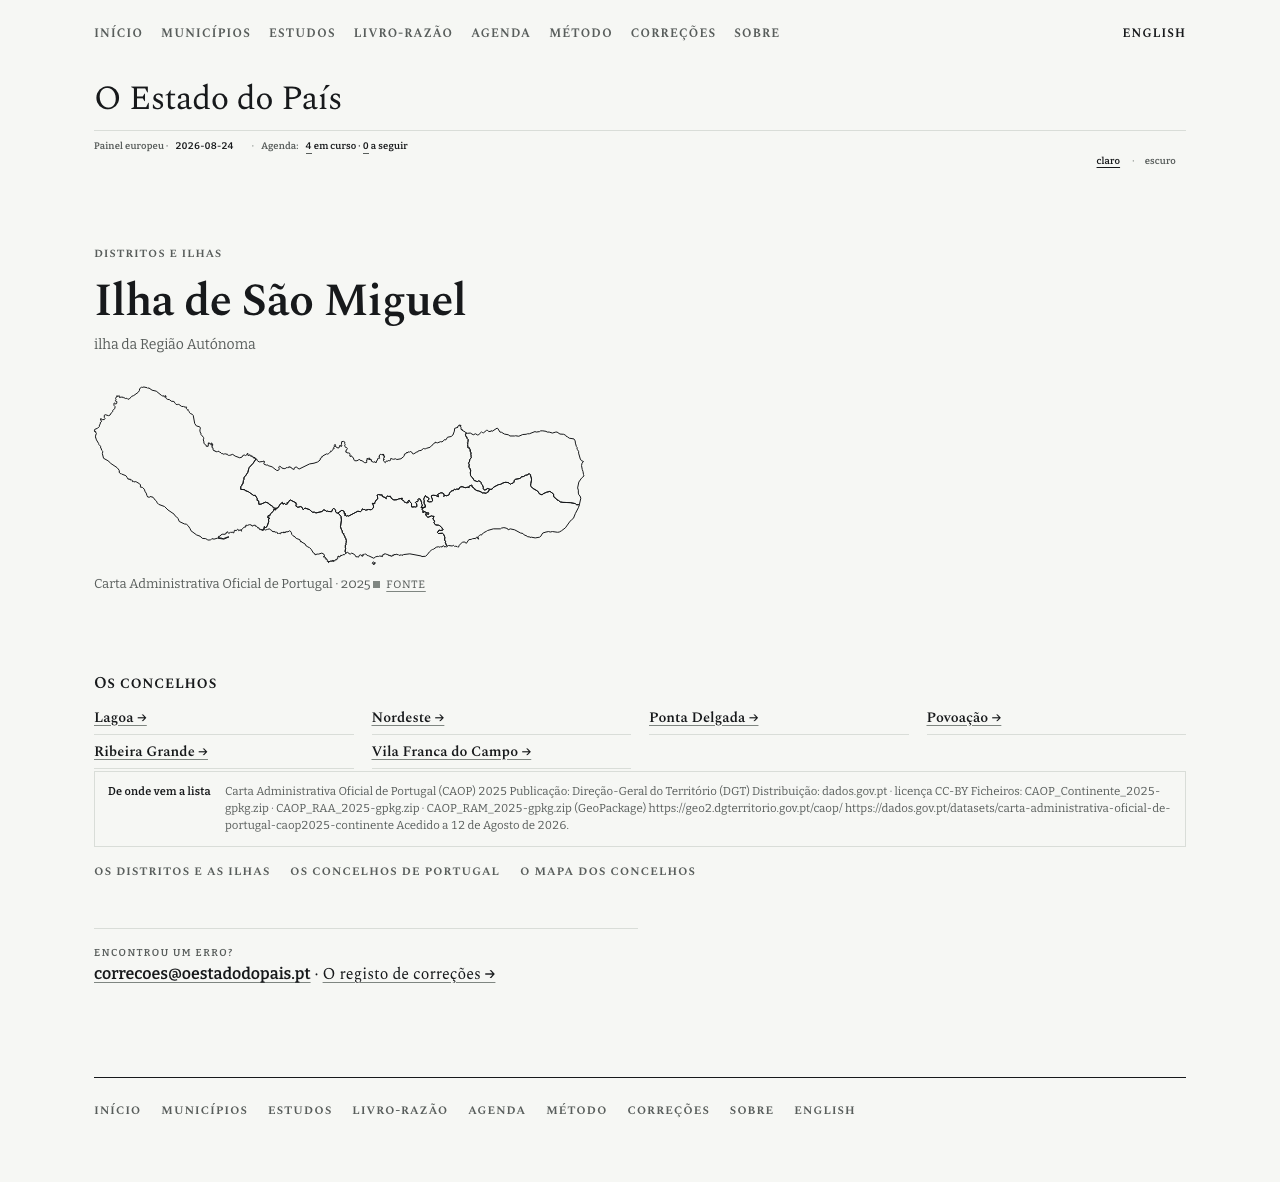
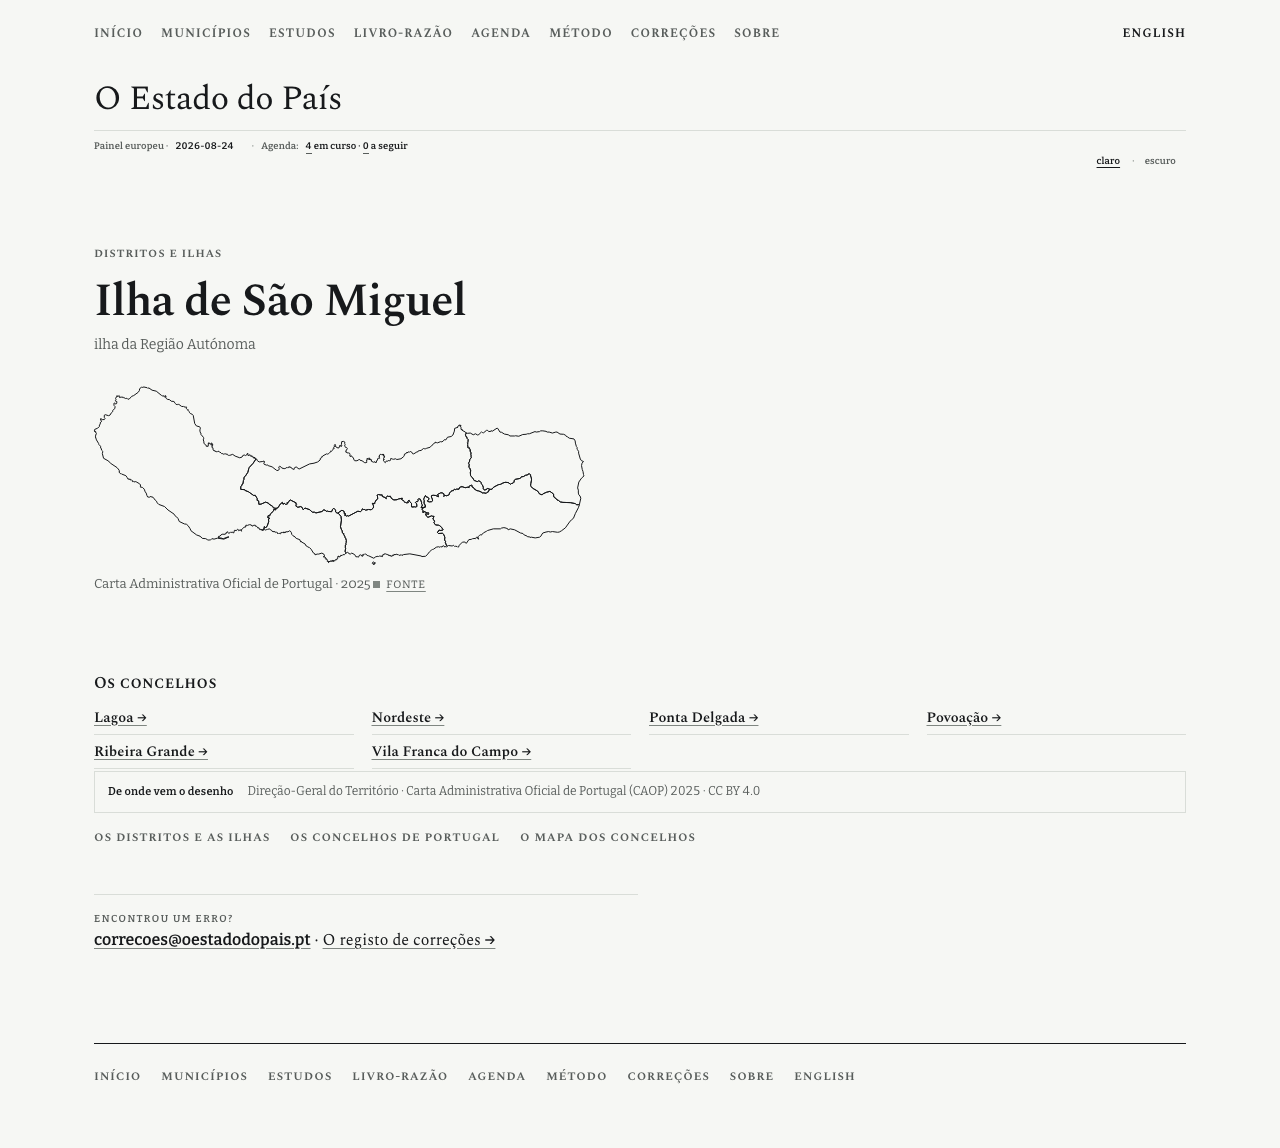
A menção da fonte da Carta passa a estar escrita onde o mapa está, nas duas superfícies
Emenda 20e: «a geometria é a da CAOP 2025 (DGT, CC BY 4.0, com a atribuição
escrita)». A primeira página dizia-a por dentro do selo, que abre a linha do
livro-razão onde a DGT está nomeada: a cadeia fechava, mas a menção ficava a um
clique do mapa mais visto do sítio, e uma obrigação de licença não se cumpre por
hiperligação.

`src/components/FonteDaCarta.astro` rende as três cadeias de `mapa/manifest.json`
e mais nada: a entidade proprietária, o nome e a edição da Carta, e a licença.
«Direção-Geral do Território · Carta Administrativa Oficial de Portugal (CAOP)
2025 · CC BY 4.0», igual nas duas edições, porque são nomes próprios de uma
entidade, de um registo e de uma licença. O mesmo bloco entra na primeira página,
numa fila por baixo do mapa, e na página de cada unidade, onde substitui a
transcrição do colofão da v2 que dizia «licença CC-BY», sem versão: uma licença
identifica-se pela versão, e a forma exacta da fonte é a do manifesto. A
transcrição fica onde ela é o objecto, que é o índice dos concelhos.

A fila é própria, e é uma medição que o decide. Posta a menção dentro da legenda
da Emenda 17, o bloco cresceu na coluna de 55% do canto das ilhas e empurrou a
legenda para cima do continente: a célula da matriz viu-a a começar em y=6799 do
campo, quando o canto só começa em y=6973. Fora da legenda, a legenda não se move
um píxel (y=7376 a 1024, y=7803 de 1180 para cima) e a menção lê-se sem se
apertar.
[…]

diff --git a/src/styles/mapa.css b/src/styles/mapa.css
@@ -47,3 +47,18 @@
 .uni-porta:focus-visible {
   outline: none;
 }
+
+/* ---------------------------------------------------------------------------
+ * A MENÇÃO DA FONTE (Emenda 20e)
+ * ---------------------------------------------------------------------------
+ * O mesmo bloco nas duas superfícies, e por isso a mesma regra: letra de
+ * instrumento, corpo pequeno, tinta apagada. Não é uma legenda nem uma porta: é
+ * a menção que a licença da Carta obriga a fazer ao pé do desenho, e compõe-se
+ * como o resto da mobília de proveniência do sítio.
+ */
+.fonte-da-carta {
+  font-family: var(--f-instr);
+  font-size: 12px;
+  line-height: 1.45;
+  color: var(--muted);
+}

diff --git a/src/styles/inicio.css b/src/styles/inicio.css
@@ -417,6 +417,14 @@
   outline-offset: 2px;
 }
 
+/* A MENÇÃO DA FONTE TEM FILA PRÓPRIA, POR BAIXO DO MAPA (Emenda 20e).
+   Não vai para o canto das ilhas com a legenda: ali a coluna tem 55% da largura
+   do mapa, e a menção, que é longa, empurrava a legenda para cima do continente
+   (medido na matriz: a legenda a começar em y=6799 do campo, e o canto a começar
+   em y=6973). Aqui tem a largura toda e não mexe em nada. */
+.mapa-fonte {
+  margin: 8px 0 0;
+}
 .mapa-linha,
 .mapa-rodape {
   min-width: 0;

diff --git a/design/especime-v3/CHAVES-EN.md b/design/especime-v3/CHAVES-EN.md
@@ -886,3 +886,32 @@ não são chaves: vêm da Carta e atravessam no artefacto do motor.
 («` concelhos`» / «` municipalities`»). Era as palavras ao lado da contagem de
 concelhos na página de uma unidade, e a contagem saiu: a lista está na página
 inteira, e a Ilha da Graciosa fazia a linha sair «1 concelhos».
+
+### A menção da fonte, ao pé do mapa (Emenda 20e, 27.08.2026)
+
+**Uma chave nova por edição, e uma menção que não é uma chave.** A Emenda 20e diz
+que a atribuição da CAOP é escrita onde o mapa está. A menção passou a sair de
+`mapa/manifest.json` e a ser o mesmo bloco nas duas superfícies (a primeira
+página, por baixo da linha da Emenda 17, e a página de cada unidade): «Direção-Geral
+do Território · Carta Administrativa Oficial de Portugal (CAOP) 2025 · CC BY 4.0».
+
+| chave | pt | en | nota |
+|---|---|---|---|
+| `distritos.fonteK` | De onde vem o desenho | Where the drawing comes from | o rótulo do bloco da fonte na página de uma unidade. Era o de `/municipios` («De onde vem a lista» / «Where the list comes from»), e ali o objecto é a lista; aqui o objecto é o desenho |
+
+**A menção em si não é uma cadeia da casa nas duas edições, e é a mesma nas
+duas.** As três partes saem do manifesto que o motor escreveu das constantes onde
+a frase da DGT foi transcrita da fonte: o nome da entidade proprietária, o nome e
+a edição da Carta, e a licença. Nenhuma se traduz, pela mesma razão por que a lede
+de `/municipios` não traduz o nome da Carta: são o nome próprio de uma entidade,
+de um registo e de uma licença. A licença escreve-se **«CC BY 4.0»**, que é a
+forma exacta do manifesto, e não «CC-BY», que era a forma abreviada do colofão da
+v2 que a página de unidade transcrevia até aqui.
+
+**Nenhuma das duas entra no `INVENTARIO-FRASES.md`**, e a régua di-lo: a menção
+leva `data-nonledger="fonte-da-carta"` (motivo declarado em
+`ledger/allowlist.yml`) e o rótulo é irmão dela dentro do mesmo bloco, que a
+`medir-defeitos.mjs` deixa de fora por conter uma origem declarada. É a mesma
+disciplina, e o mesmo resultado, do «De onde vem a lista» de `/municipios`, que
+também não está na tabela. `npm run check:voz` continua a dizer «nada por
+classificar».

diff --git a/design/especime-v3/INVENTARIO-FRASES.md b/design/especime-v3/INVENTARIO-FRASES.md
@@ -1050,3 +1050,13 @@ isso também não tem cadeia.*
 | conteudo | district | mapa-distritos |
 | conteudo | ilha da Região Autónoma | mapa-distritos |
 | conteudo | island of the Autonomous Region | mapa-distritos |
+
+*Nota da Emenda 20e (27.08.2026), para que a ausência fique explicada: a menção
+da fonte da Carta que passou a viver ao pé dos dois mapas («Direção-Geral do
+Território · Carta Administrativa Oficial de Portugal (CAOP) 2025 · CC BY 4.0») e
+o rótulo do bloco que a leva na página de uma unidade («De onde vem o desenho» /
+«Where the drawing comes from») **não entram nesta tabela**. A menção leva
+`data-nonledger="fonte-da-carta"`, que é uma origem declarada, e o rótulo é irmão
+dela dentro do mesmo bloco: a régua deixa de fora todo o bloco que contenha uma
+origem declarada, e por isso não os recolhe. É a mesma disciplina, e o mesmo
+resultado, do «De onde vem a lista» de `/municipios`, que também não está aqui.*
